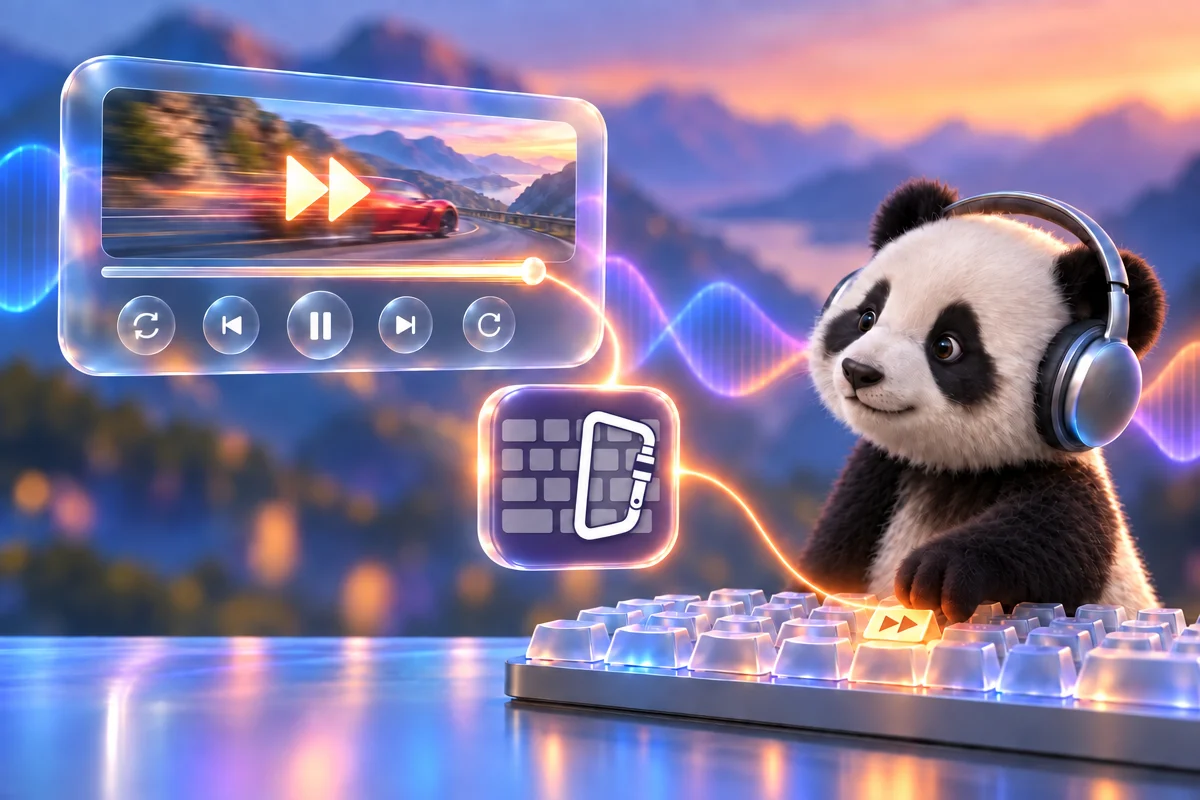
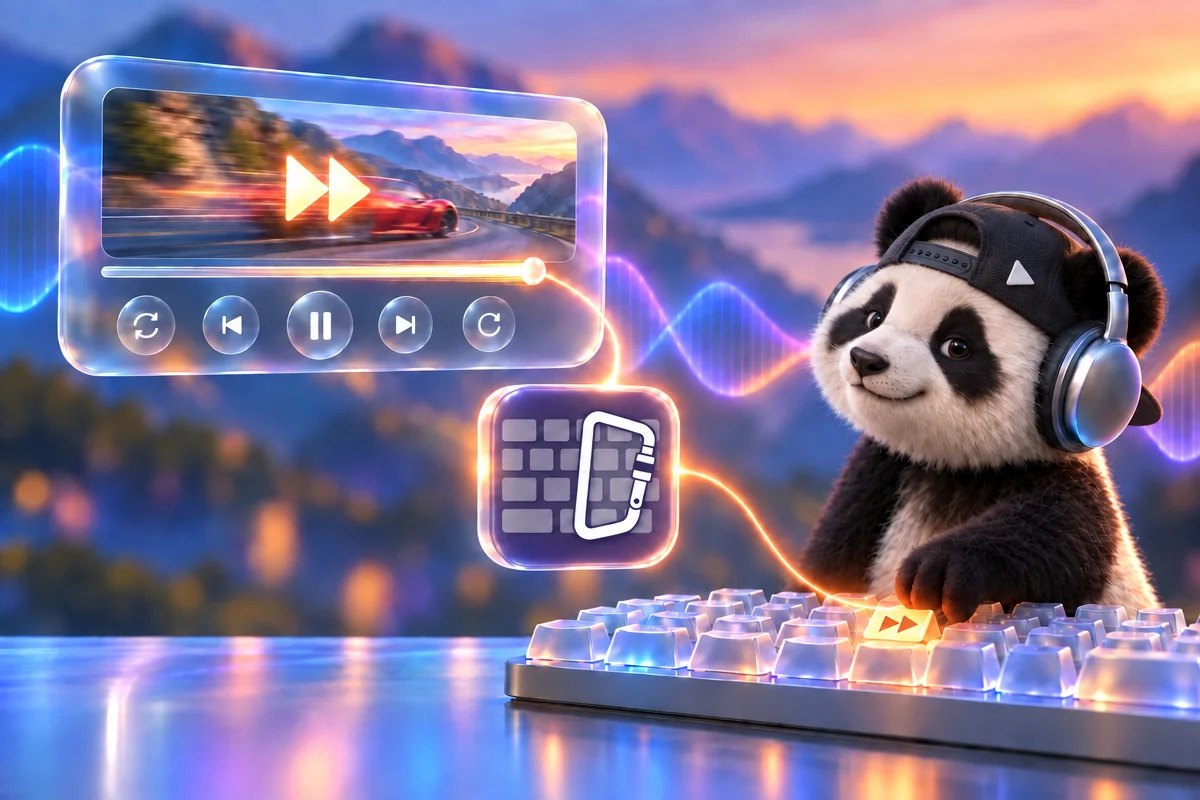
README: the knob and the list of pages as picture-and-a-line tables; the Karabiner panda wears a cap
The owner liked the two-column table with smaller pictures and asked for the rest in the same manner. The cap marks the second way as the one for those who tune their keyboards.

diff --git a/README.md b/README.md
@@ -38,7 +38,7 @@ Homebrew 7 wants third-party taps trusted: the full name above trusts this one f
 
 Give `forward` and `backward` a key each. The key goes through an app that binds it; the film winds. Two such apps:
 
-| <img src="docs/images/with-shortcuts.webp" alt="The panda presses a key; a thread of light runs from it through the icon of the Shortcuts app into a player, where the film winds forward" width="100%"> | <img src="docs/images/with-karabiner.webp" alt="The same, and the thread runs through the icon of Karabiner-Elements" width="100%"> |
+| <img src="docs/images/with-shortcuts.webp" alt="The panda presses a key; a thread of light runs from it through the icon of the Shortcuts app into a player, where the film winds forward" width="100%"> | <img src="docs/images/with-karabiner.webp" alt="The same scene with the icon of Karabiner-Elements, and the panda in a cap worn backwards" width="100%"> |
 | --- | --- |
 | **Shortcuts** — the app every Mac already has, nothing else to install. A press moves by the step you wrote. | **Karabiner-Elements** — free, for those who remap keys. Hold the key: it moves off in small steps, gathers pace, settles. Release, and it stops. |
 | [Step by step →](docs/hotkeys.md#a-key-in-shortcuts) | [The rule to import →](docs/hotkeys.md#a-key-in-karabiner-elements) |
@@ -47,12 +47,10 @@ Hammerspoon, skhd, a Stream Deck, a foot pedal: [anything that runs a command](d
 
 ## A knob
 
-<p align="center"><img src="docs/images/banner-knob.webp" alt="The panda turns the big knob of a glass keyboard; the handle of the progress bar above slides along" width="100%"></p>
-
-If you have a mechanical keyboard with a knob, it is a jog wheel.
-Turned slowly, it moves by seconds. Flicked, by minutes.
-
-See [the Karabiner-Elements rule](docs/hotkeys.md#a-knob-in-karabiner-elements).
+<table><tr>
+<td width="50%"><img src="docs/images/banner-knob.webp" alt="The panda turns the big knob of a glass keyboard; the handle of the progress bar above slides along"></td>
+<td><b>A keyboard with a knob has a jog wheel.</b><br><br>Turned slowly, it moves by seconds. Flicked, by minutes.<br><br><a href="docs/hotkeys.md#a-knob-in-karabiner-elements">The Karabiner-Elements rule →</a></td>
+</tr></table>
 
 ## Commands
 
@@ -79,14 +77,16 @@ Exit `0`: done. `1`: nothing is playing. `2`: the player did not listen.
 
 ## More
 
-- [Hotkeys, knobs and pedals](docs/hotkeys.md)
-- [The curve of a held key, the knob, the config file](docs/advanced.md)
-- [For scripts and AI agents](docs/scripting.md)
-- [Moving over](docs/migrating.md) from nowplaying-cli, media-control, playerctl, mpc, shpotify
-- [Compared with](docs/compared.md) nowplaying-cli, media-control, a player's own keys
-- [How it works](docs/how-it-works.md): why a script and not a binary
-- [Questions](docs/questions.md)
-- [Development](docs/development.md)
+<table>
+<tr><td width="180"><a href="docs/hotkeys.md"><img src="docs/images/banner-hotkeys.webp" alt=""></a></td><td><b><a href="docs/hotkeys.md">Hotkeys, knobs and pedals</a></b><br>Shortcuts, Karabiner-Elements, Hammerspoon, skhd: a key, a hold, a knob.</td></tr>
+<tr><td width="180"><a href="docs/advanced.md"><img src="docs/images/banner-advanced.webp" alt=""></a></td><td><b><a href="docs/advanced.md">The curve, the knob, the config file</a></b><br>How a held key gathers pace, and every number that can be changed.</td></tr>
+<tr><td width="180"><a href="docs/scripting.md"><img src="docs/images/banner-scripting.webp" alt=""></a></td><td><b><a href="docs/scripting.md">For scripts and AI agents</a></b><br>One line in, JSON out, and an exit code that is the truth.</td></tr>
+<tr><td width="180"><a href="docs/migrating.md"><img src="docs/images/banner-migrating.webp" alt=""></a></td><td><b><a href="docs/migrating.md">Moving over</a></b><br>From nowplaying-cli, media-control, playerctl, mpc, shpotify: the same words work.</td></tr>
+<tr><td width="180"><a href="docs/compared.md"><img src="docs/images/banner-compared.webp" alt=""></a></td><td><b><a href="docs/compared.md">Compared with</a></b><br>nowplaying-cli, media-control, a player's own keys.</td></tr>
+<tr><td width="180"><a href="docs/how-it-works.md"><img src="docs/images/banner-how-it-works.webp" alt=""></a></td><td><b><a href="docs/how-it-works.md">How it works</a></b><br>Why it is a script and not a binary, and why it exists.</td></tr>
+<tr><td width="180"><a href="docs/questions.md"><img src="docs/images/banner-questions.webp" alt=""></a></td><td><b><a href="docs/questions.md">Questions</a></b><br>The ones people type into a search box.</td></tr>
+<tr><td width="180"><a href="docs/development.md"><img src="docs/images/banner-development.webp" alt=""></a></td><td><b><a href="docs/development.md">Development</a></b><br>Build, test, lint; what is left.</td></tr>
+</table>
 
 ## Licence
 
